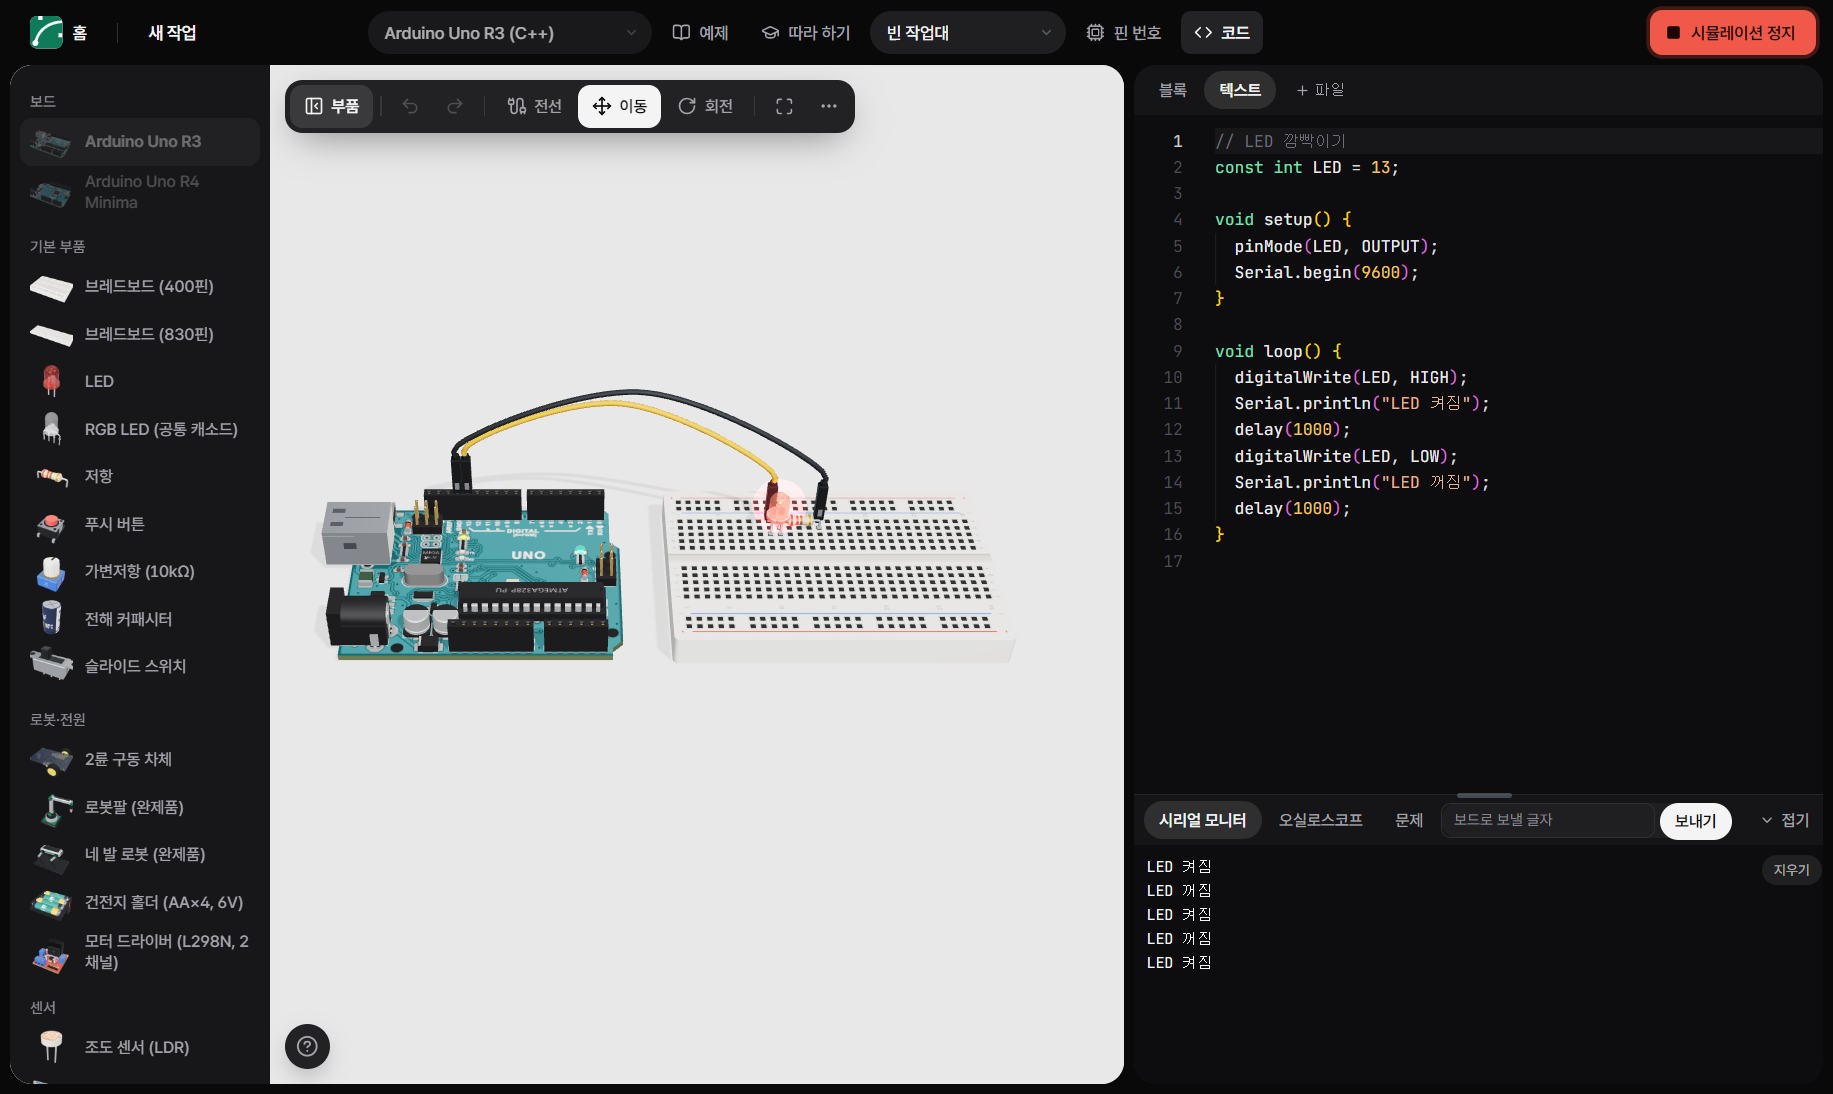
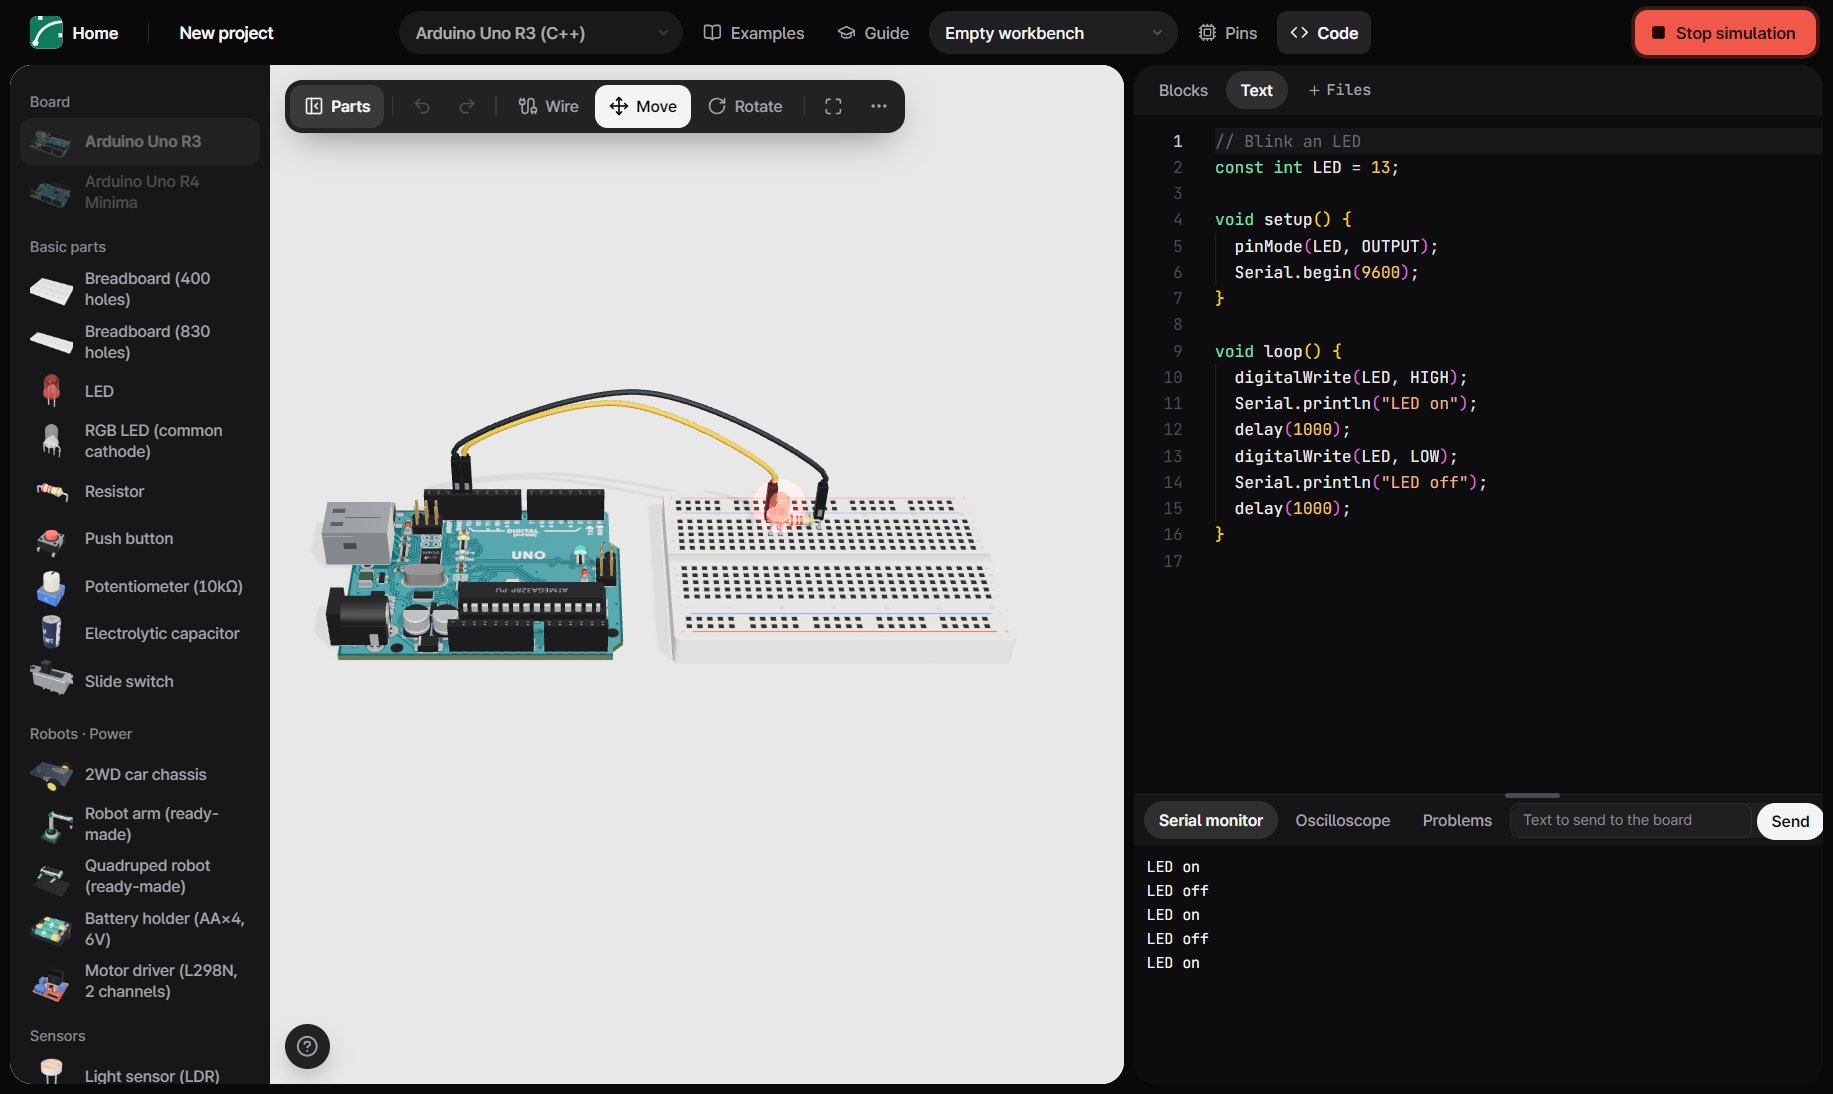
Link the English builds and use the English screenshot

diff --git a/index.html b/index.html
@@ -61,16 +61,16 @@
   <section class="get" id="download">
     <h2>Download</h2>
 
+    <h3>English</h3>
+    <div class="grid two">
+      <a class="card" href="https://github.com/NohJin5361/virtual-hardware-lab/releases/latest/download/VirtualHardwareLab-en-windows.zip"><strong>Windows</strong><span>10 · 11 · unzip and run</span></a>
+      <a class="card" href="https://github.com/NohJin5361/virtual-hardware-lab/releases/latest/download/VirtualHardwareLab-en-android.apk"><strong>Android</strong><span>Tablet · APK</span></a>
+    </div>
+
     <h3>한국어 <small>Korean</small></h3>
     <div class="grid two">
       <a class="card" href="https://github.com/NohJin5361/virtual-hardware-lab/releases/latest/download/VirtualHardwareLab-ko-windows.zip"><strong>Windows</strong><span>10 · 11 · unzip and run</span></a>
       <a class="card" href="https://github.com/NohJin5361/virtual-hardware-lab/releases/latest/download/VirtualHardwareLab-ko-android.apk"><strong>Android</strong><span>Tablet · APK</span></a>
-    </div>
-
-    <h3>English</h3>
-    <div class="grid two">
-      <div class="card soon"><strong>Windows</strong><span>Coming soon</span></div>
-      <div class="card soon"><strong>Android</strong><span>Coming soon</span></div>
     </div>
   </section>
 </main>
